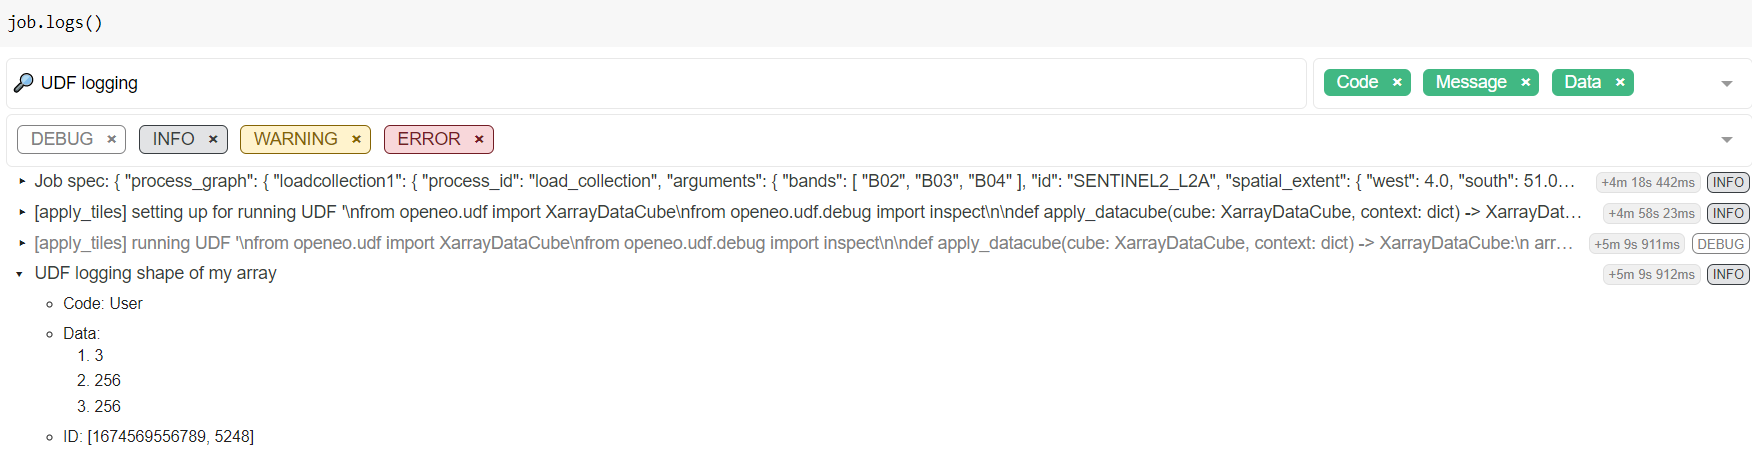
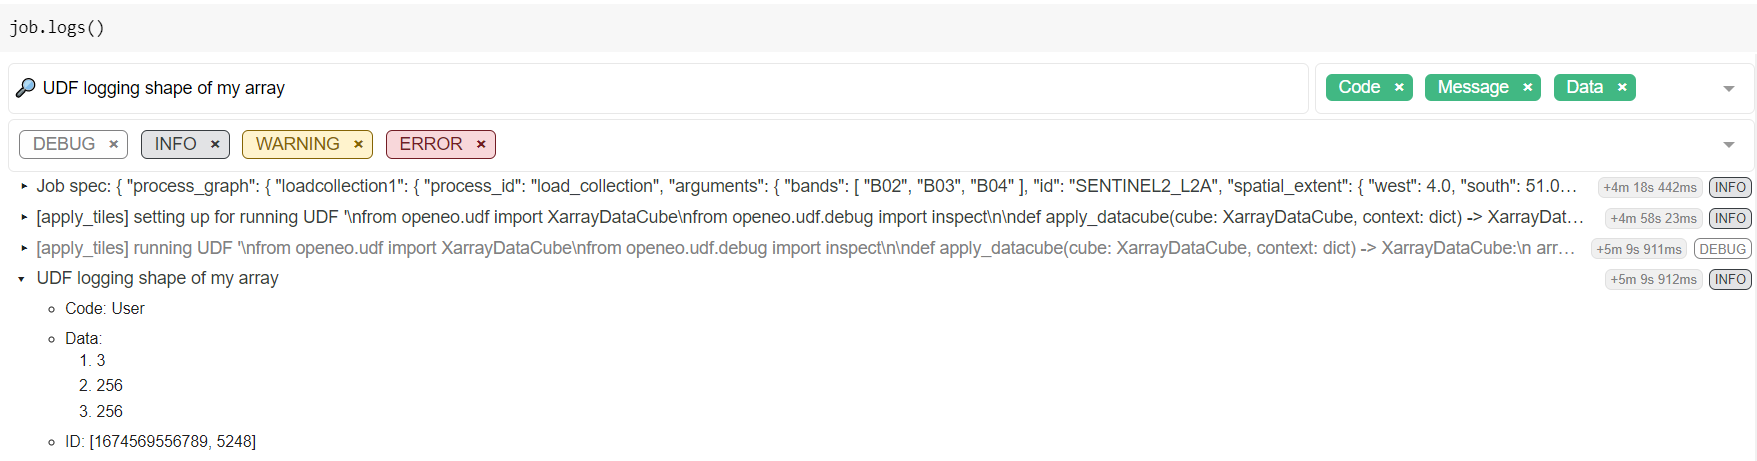
replaced image

diff --git a/docs/udf.rst b/docs/udf.rst
@@ -426,7 +426,8 @@ Then, in a Jupyter notebook use the ```job.logs()``` to request the job logs, yo
 
 .. image:: _static/images/udf/logging_arrayshape.png
 
-
+The array of shape 3x256x256 was logged in. [Please note that this method experimental and not all 
+data types are properly supported in ```data``` argument of ```inspect```]
 
 
 .. _old_udf_api:
